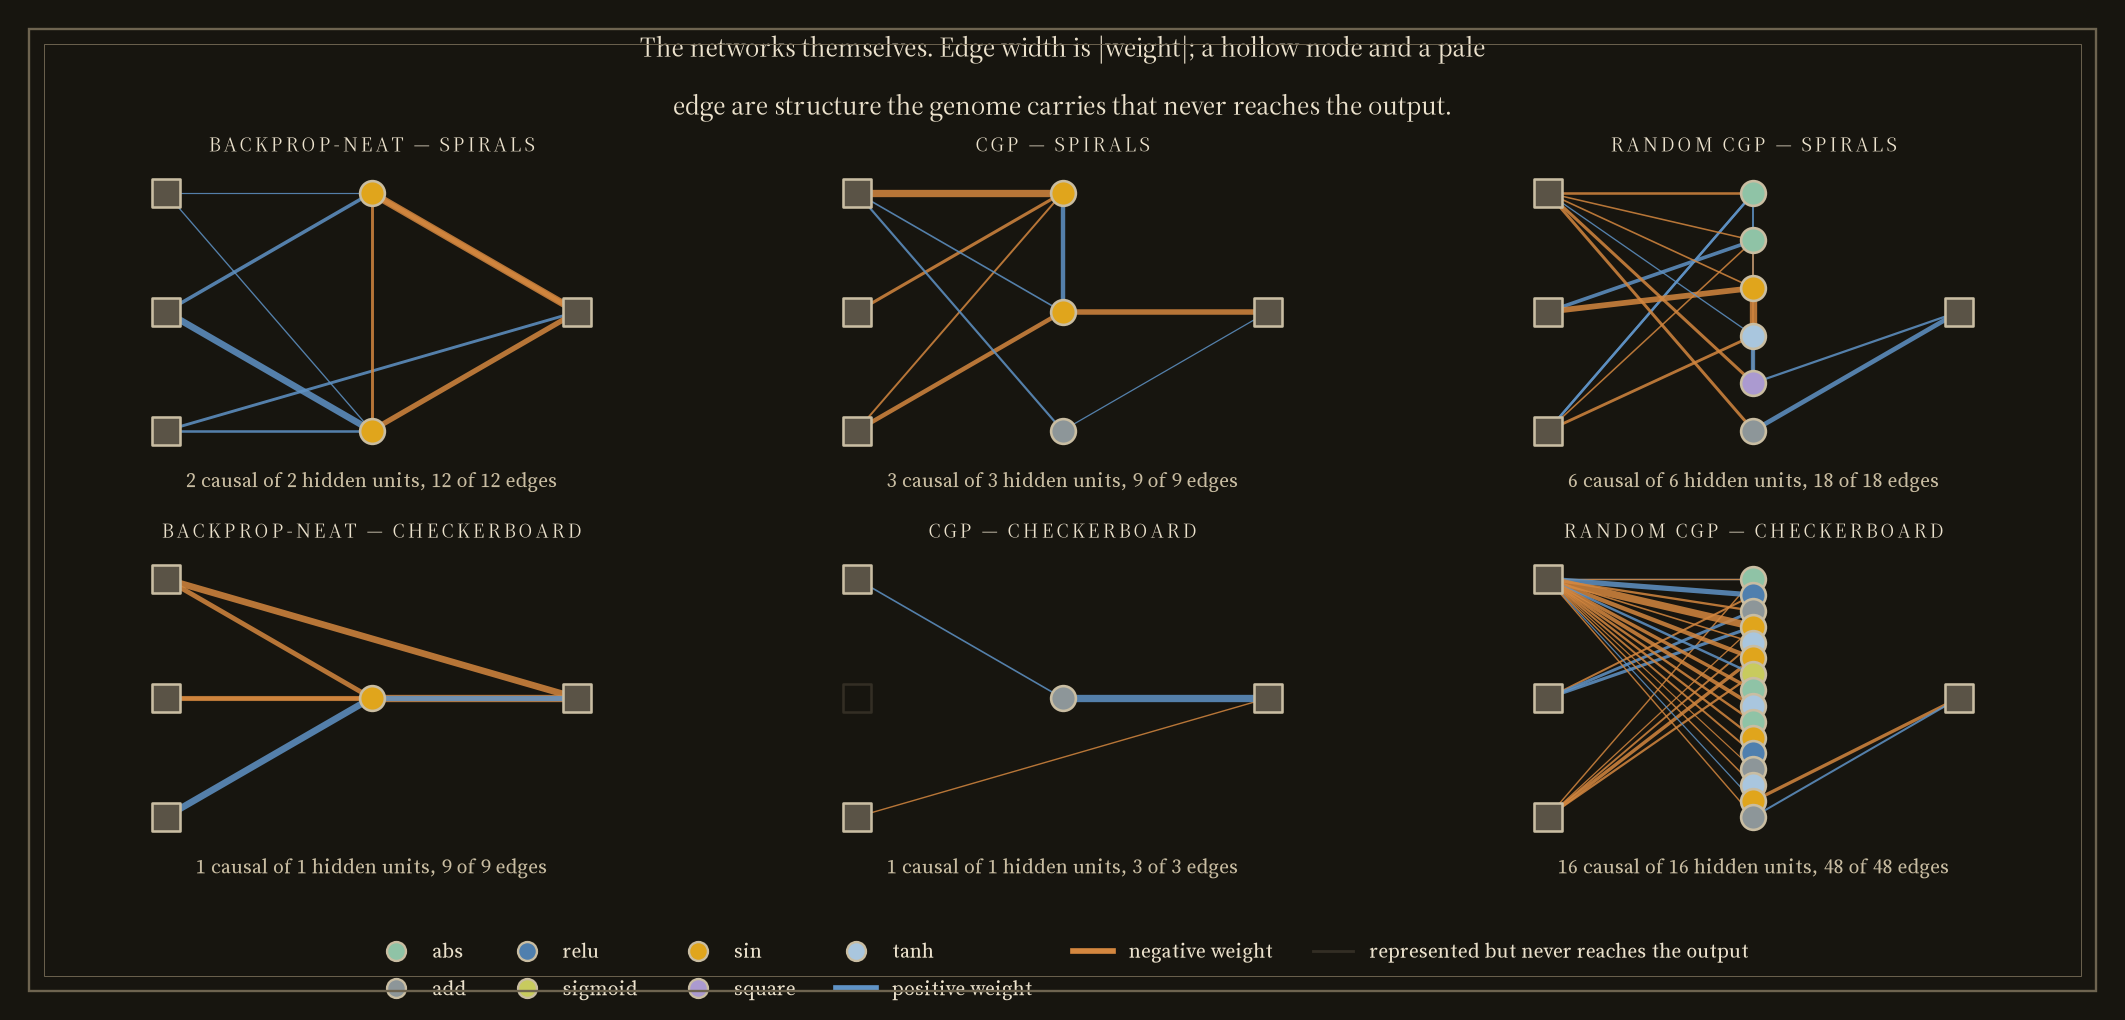
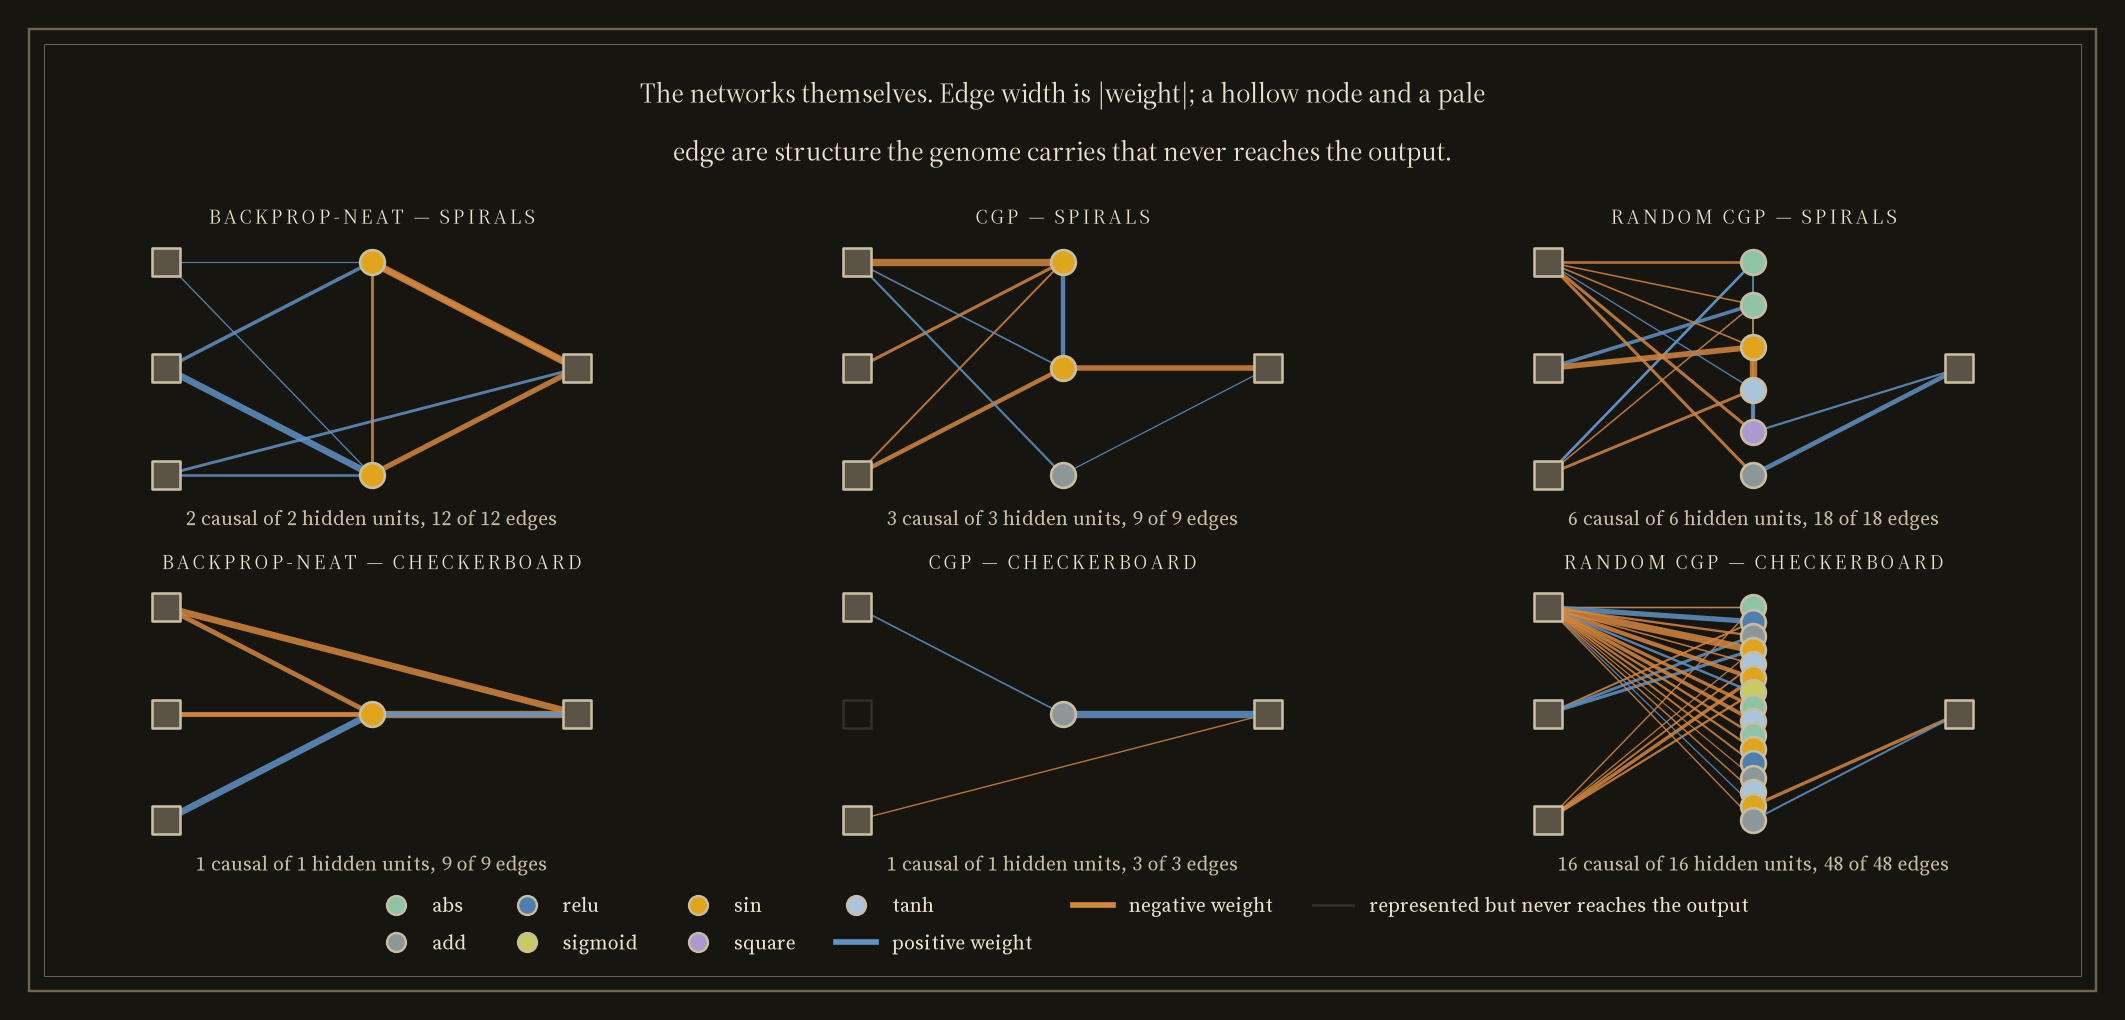
Finish every figure the same way, including the ones with keys under them
The restyle left three figures still fighting the border: the geometry
key, the operator-usage key and the decision-boundary colour bar all sat
where the rule is drawn, and the nudge that moves lettering inside the
frame then dropped them on top of the data.

The fix is symmetric with the headline band. `style.finish` is now the one
pass between "the data is drawn" and "write the file" — set the lettering,
reserve a band above for the headline and below for any figure-level key,
lay the panels out between them, move anything still under the border, and
draw the border. The portrait figures call it instead of repeating the
parts they remembered, and the decision-boundary key reports the band it
needs rather than being positioned by hand per figure.

The animation gets the rule too; that call had been written and lost.

The frame gate caught this commit's own change — it knew `style.save` and
`plate_frame` but not the new `finish` — which is the gate behaving
correctly, so it now knows all three.

292 gates pass, all five releases verify, 28 figures in one register.

Claude-Session: https://claude.ai/code/session_01GP1bnJXe8xy12aBhsum7ab

diff --git a/bench/portrait_figures.py b/bench/portrait_figures.py
@@ -43,18 +43,19 @@ from bpneat.style import (  # noqa: E402
     DPI,
     GRID,
     INK,
+    FRAME_IN,
     INK2,
     OP_COLOUR,
     REFERENCE,
+    RULE,
     SURFACE,
     WEIGHT_NEG,
     WEIGHT_POS,
     boundary_cmap,
     panel,
-    plate_frame,
+    finish,
     ramp,
     style_axes,
-    typeset,
 )
 
 #: Class 0 -> blue, class 1 -> orange, through a near-neutral midpoint. Two
@@ -109,29 +110,40 @@ def _style_panel(ax):
     ax.set_facecolor(SURFACE)
 
 
-def boundary_key(fig, y: float = 0.012) -> None:
-    """What the two colours mean, said once per figure.
+def boundary_key(fig) -> float:
+    """What the two pigments mean, said once per figure, inside the rule.
 
     Thirty-three two-colour panels went out with nothing anywhere stating that
-    blue is class 0, orange is class 1, and the pale middle is the model
-    declining to decide. A figure that never names its encoding is asking the
-    reader to guess it.
+    cold is class 0, warm is class 1, and the ground showing through is the
+    model declining to decide. A figure that never names its encoding is asking
+    the reader to guess it.
+
+    Returns the figure fraction the panels must stay above, so the caller can
+    reserve the band instead of discovering the collision in the PNG.
     """
+    height = fig.get_size_inches()[1]
+    rule_in = FRAME_IN * 1.52
+    caption_in = rule_in + 0.16
+    bar_in = caption_in + 0.21
     gradient = np.linspace(0, 1, 256).reshape(1, -1)
-    bar = fig.add_axes([0.40, y + 0.004, 0.20, 0.014])
+    bar = fig.add_axes([0.40, (bar_in - 0.045) / height, 0.20, 0.09 / height])
     bar.imshow(gradient, aspect="auto", cmap=BOUNDARY_CMAP, vmin=0, vmax=1)
     bar.set_xticks([])
     bar.set_yticks([])
-    for s in bar.spines.values():
-        s.set_color(GRID)
-    fig.text(0.395, y + 0.011, "predicts class 0", ha="right", va="center",
+    for spine in bar.spines.values():
+        spine.set_color(RULE)
+        spine.set_linewidth(0.6)
+    fig.text(0.395, bar_in / height, "predicts class 0", ha="right", va="center",
              fontsize=8.5, color=INK2)
-    fig.text(0.605, y + 0.011, "predicts class 1", ha="left", va="center",
+    fig.text(0.605, bar_in / height, "predicts class 1", ha="left", va="center",
              fontsize=8.5, color=INK2)
-    fig.text(0.5, y - 0.012, "the ground showing through is undecided; the pale "
-             "line is the 0.5 contour; dots are training points, coloured by "
-             "their true class",
-             ha="center", va="center", fontsize=8, color=INK2)
+    fig.text(0.5, caption_in / height,
+             "the ground showing through is undecided; the pale line is the 0.5 "
+             "contour; dots are training points, coloured by their true class",
+             ha="center", va="center", fontsize=8, color=RULE)
+    # The band the panels must stay above: the key itself, plus room for the
+    # accuracy label each bottom-row panel hangs below its own axes.
+    return (bar_in + 0.46) / height
 
 
 def _draw_boundary(ax, champ: Champion, show_points: bool = True):
@@ -187,12 +199,10 @@ def fig_decision_boundaries(out: Path) -> Path:
         "Sealed-test accuracy under each panel. Median replicate of 30, never the best.",
         color=INK, fontsize=12,
     )
-    fig.subplots_adjust(top=0.86, bottom=0.10, left=0.055, right=0.99,
-                        wspace=0.07, hspace=0.16)
-    boundary_key(fig, y=0.030)
     OUT.mkdir(parents=True, exist_ok=True)
-    typeset(fig)
-    plate_frame(fig)
+    band = boundary_key(fig)
+    finish(fig, top=0.86, bottom=band, left=0.055, right=0.99,
+           wspace=0.07, hspace=0.16)
     fig.savefig(out, dpi=DPI, facecolor=SURFACE)
     plt.close(fig)
     print(f"wrote {out.relative_to(ROOT)}")
@@ -284,11 +294,8 @@ def fig_champion_networks(out: Path) -> Path:
         "edge are structure the genome carries that never reaches the output.",
         color=INK, fontsize=12,
     )
-    fig.subplots_adjust(top=0.84, bottom=0.17, left=0.02, right=0.98,
-                        wspace=0.05, hspace=0.30)
     OUT.mkdir(parents=True, exist_ok=True)
-    typeset(fig)
-    plate_frame(fig)
+    finish(fig, top=0.84, bottom=0.17, left=0.02, right=0.98, wspace=0.05, hspace=0.30)
     fig.savefig(out, dpi=DPI, facecolor=SURFACE)
     plt.close(fig)
     print(f"wrote {out.relative_to(ROOT)}")
@@ -334,12 +341,10 @@ def fig_mechanism_boundaries(out: Path) -> Path:
         "Median champion of 30 replicates; accuracy under each panel.",
         color=INK, fontsize=12,
     )
-    fig.subplots_adjust(top=0.86, bottom=0.11, left=0.06, right=0.99,
-                        wspace=0.07, hspace=0.16)
-    boundary_key(fig, y=0.034)
     OUT.mkdir(parents=True, exist_ok=True)
-    typeset(fig)
-    plate_frame(fig)
+    band = boundary_key(fig)
+    finish(fig, top=0.86, bottom=band, left=0.06, right=0.99,
+           wspace=0.07, hspace=0.16)
     fig.savefig(out, dpi=DPI, facecolor=SURFACE)
     plt.close(fig)
     print(f"wrote {out.relative_to(ROOT)}")
@@ -349,7 +354,9 @@ def fig_mechanism_boundaries(out: Path) -> Path:
 def fig_task_geometries(out: Path) -> Path:
     """The five problems, drawn once, so the rest of the README has a referent."""
     tasks = ("xor", "circle", "spiral", "checkerboard", "spiral3")
-    fig, axes = plt.subplots(1, len(tasks), figsize=(2.2 * len(tasks), 2.5),
+    # Tall enough for a key that sits inside the plate's rule rather than
+    # under it; at 2.5 inches there was no band left for it.
+    fig, axes = plt.subplots(1, len(tasks), figsize=(2.2 * len(tasks), 3.1),
                              facecolor=SURFACE)
     for ax, task in zip(axes, tasks):
         b = make_bundle(task, seed=50001)
@@ -371,13 +378,11 @@ def fig_task_geometries(out: Path) -> Path:
                        label=f"class {i}")
             for i in (0, 1)
         ],
-        fontsize=8.5, frameon=False, ncol=2, loc="lower center",
-        bbox_to_anchor=(0.5, 0.0),
+        fontsize=9, frameon=False, ncol=2, loc="lower center",
+        bbox_to_anchor=(0.5, 0.035),
     )
-    fig.subplots_adjust(top=0.76, bottom=0.14, left=0.01, right=0.99, wspace=0.08)
     OUT.mkdir(parents=True, exist_ok=True)
-    typeset(fig)
-    plate_frame(fig)
+    finish(fig, top=0.80, bottom=0.22, left=0.01, right=0.99, wspace=0.08)
     fig.savefig(out, dpi=DPI, facecolor=SURFACE)
     plt.close(fig)
     print(f"wrote {out.relative_to(ROOT)}")
@@ -483,10 +488,8 @@ def fig_operator_usage(out: Path) -> Path:
         "separate code.",
         color=INK, fontsize=11.5,
     )
-    fig.subplots_adjust(top=0.84, bottom=0.14, left=0.085, right=0.99, wspace=0.42)
     OUT.mkdir(parents=True, exist_ok=True)
-    typeset(fig)
-    plate_frame(fig)
+    finish(fig, top=0.84, bottom=0.14, left=0.085, right=0.99, wspace=0.42)
     fig.savefig(out, dpi=DPI, facecolor=SURFACE)
     plt.close(fig)
     print(f"wrote {out.relative_to(ROOT)}")

diff --git a/src/bpneat/style.py b/src/bpneat/style.py
@@ -391,6 +391,42 @@ def _reserve_headline(fig, adjust: dict) -> dict:
     return adjust
 
 
+def _frame_pad(fig) -> tuple[float, float]:
+    """The inner rule's distance from the edge, as figure fractions."""
+    w_in, h_in = fig.get_size_inches()
+    inner = FRAME_IN * 1.52 + 0.07
+    return inner / w_in, inner / h_in
+
+
+def _reserve_footer(fig, adjust: dict) -> dict:
+    """Leave the panels clear of a key or caption placed below them.
+
+    The counterpart of `_reserve_headline`. A key at ``loc="lower center"`` is
+    anchored to the figure, not to the axes, so moving it inside the border
+    does not move the panels out of its way — it just lands the key on top of
+    the data. Measure how tall it is and give it its own band.
+    """
+    below = [
+        art for art in list(fig.legends) + [
+            txt for txt in fig.texts if txt is not getattr(fig, "_suptitle", None)
+        ]
+        if _artist_box(fig, art).y1 < 0.5
+    ]
+    if not below:
+        return adjust
+    _, pad_y = _frame_pad(fig)
+    needed = pad_y + max(_artist_box(fig, a).height for a in below) + 0.035
+    if adjust.get("bottom", 0.0) < needed:
+        adjust = dict(adjust, bottom=needed)
+    return adjust
+
+
+def _artist_box(fig, artist):
+    fig.canvas.draw()
+    renderer = fig.canvas.get_renderer()
+    return artist.get_window_extent(renderer).transformed(fig.transFigure.inverted())
+
+
 def _clear_the_frame(fig) -> None:
     """Move figure-level lettering out from under the plate's rule.
 
@@ -405,15 +441,9 @@ def _clear_the_frame(fig) -> None:
     ]
     if not artists:
         return
-    fig.canvas.draw()
-    renderer = fig.canvas.get_renderer()
-    inv = fig.transFigure.inverted()
-    w_in, h_in = fig.get_size_inches()
-    pad_y = (FRAME_IN * 1.52 + 0.07) / h_in
-    pad_x = (FRAME_IN * 1.52 + 0.07) / w_in
-
+    pad_x, pad_y = _frame_pad(fig)
     for art in artists:
-        box = art.get_window_extent(renderer).transformed(inv)
+        box = _artist_box(fig, art)
         dy = (pad_y - box.y0) if box.y0 < pad_y else (
             (1 - pad_y) - box.y1 if box.y1 > 1 - pad_y else 0.0)
         dx = (pad_x - box.x0) if box.x0 < pad_x else (
@@ -427,20 +457,32 @@ def _clear_the_frame(fig) -> None:
             art.set_position((x + dx, y + dy))
 
 
-def save(fig, path, **adjust) -> Any:
-    """Write a figure at the project's density, onto the project's ground."""
-    import matplotlib.pyplot as plt
+def finish(fig, **adjust) -> None:
+    """Everything between "the data is drawn" and "write the file".
 
+    Set the lettering, lay the panels out below the headline, move anything
+    that would sit under the border, and draw the border. A module that needs
+    its own margins calls this instead of reimplementing the parts it
+    remembers.
+    """
     typeset(fig)
-    path = Path(path)
-    path.parent.mkdir(parents=True, exist_ok=True)
     adjust = _reserve_headline(fig, adjust)
+    adjust = _reserve_footer(fig, adjust)
     if adjust:
         fig.subplots_adjust(**adjust)
     else:
         fig.tight_layout()
     _clear_the_frame(fig)
     plate_frame(fig)
+
+
+def save(fig, path, **adjust) -> Any:
+    """Write a figure at the project's density, onto the project's ground."""
+    import matplotlib.pyplot as plt
+
+    finish(fig, **adjust)
+    path = Path(path)
+    path.parent.mkdir(parents=True, exist_ok=True)
     fig.savefig(path, dpi=DPI, facecolor=SURFACE)
     plt.close(fig)
     return path

diff --git a/tests/test_style.py b/tests/test_style.py
@@ -439,9 +439,10 @@ def test_there_is_no_second_operator_palette():
 
 def test_no_figure_is_written_without_the_frame():
     """A plate without its rule is a chart, and the point of this style is that
-    there are no charts in here. Every `savefig` in the repository either goes
-    through `style.save`, which draws the frame, or draws it itself two
-    statements earlier."""
+    there are no charts in here. Every `savefig` in the repository is either
+    reached through `style.save` or preceded by the finishing pass that draws
+    the frame."""
+    draws_the_frame = ("style.save", "plate_frame", "finish(fig")
     offenders = []
     for path in _plotting_modules():
         lines = path.read_text().split("\n")
@@ -449,7 +450,7 @@ def test_no_figure_is_written_without_the_frame():
             if ".savefig(" not in line:
                 continue
             window = "\n".join(lines[max(0, i - 6):i])
-            if "plate_frame" not in window and "style.save" not in window:
+            if not any(marker in window for marker in draws_the_frame):
                 offenders.append(f"{path.relative_to(ROOT)}:{i + 1}")
     assert not offenders, (
         "figures written without the plate's rule at " + ", ".join(offenders)

diff --git a/bench/evolution_movie.py b/bench/evolution_movie.py
@@ -52,6 +52,7 @@ from bpneat.style import (  # noqa: E402
     OP_COLOUR,
     WEIGHT_NEG,
     WEIGHT_POS,
+    plate_frame,
     SURFACE,
     boundary_cmap,
     panel,
@@ -121,6 +122,8 @@ def render(bundle, frames, out: Path, fps: int = 3) -> Path:
         gridspec_kw={"width_ratios": [1.0, 1.25]},
     )
     OUT.mkdir(parents=True, exist_ok=True)
+    # The rule is a figure artist, so it survives the per-frame ax.clear().
+    plate_frame(fig)
     writer = PillowWriter(fps=fps)
     with writer.saving(fig, str(out), dpi=110):
         for frame in frames:
